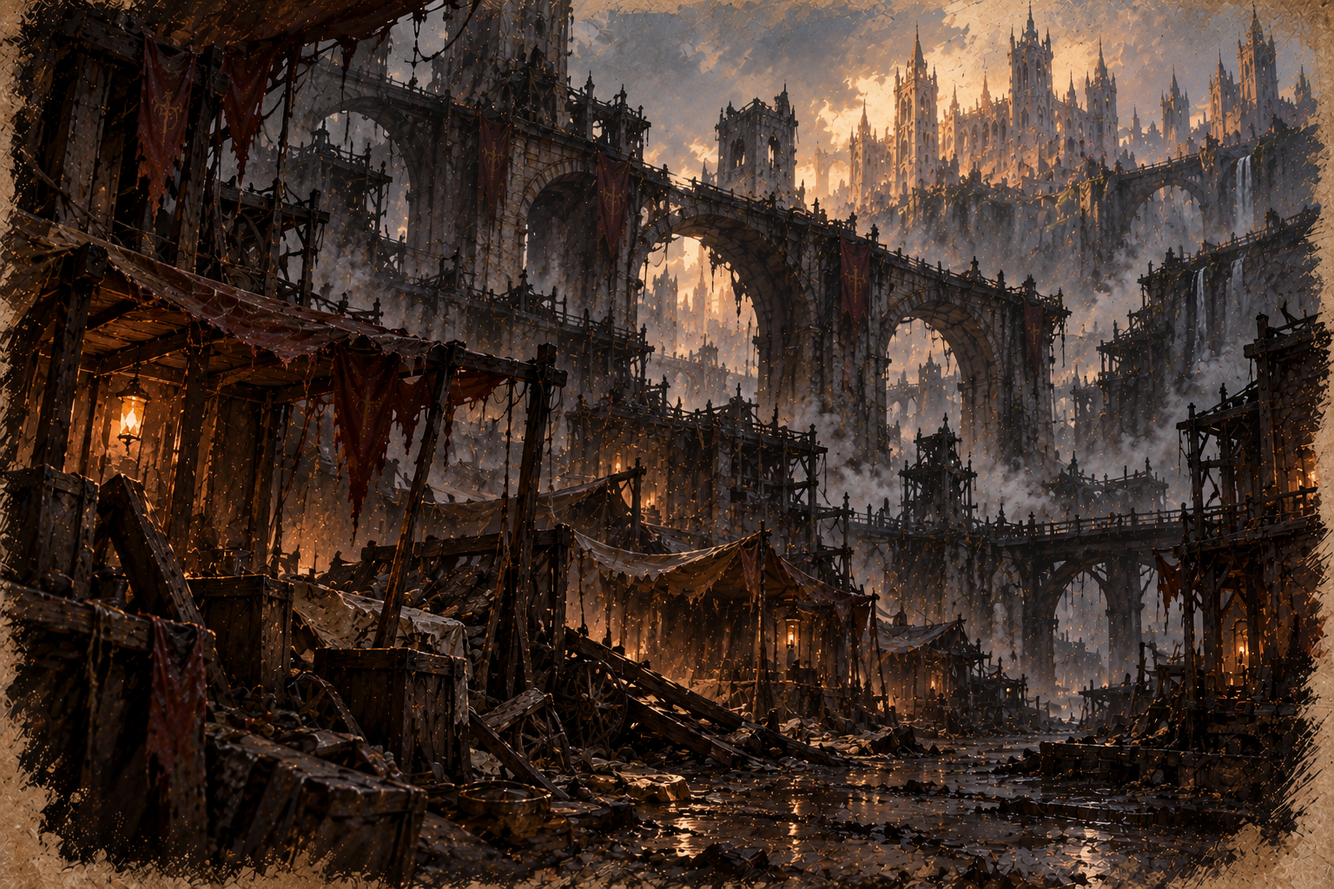
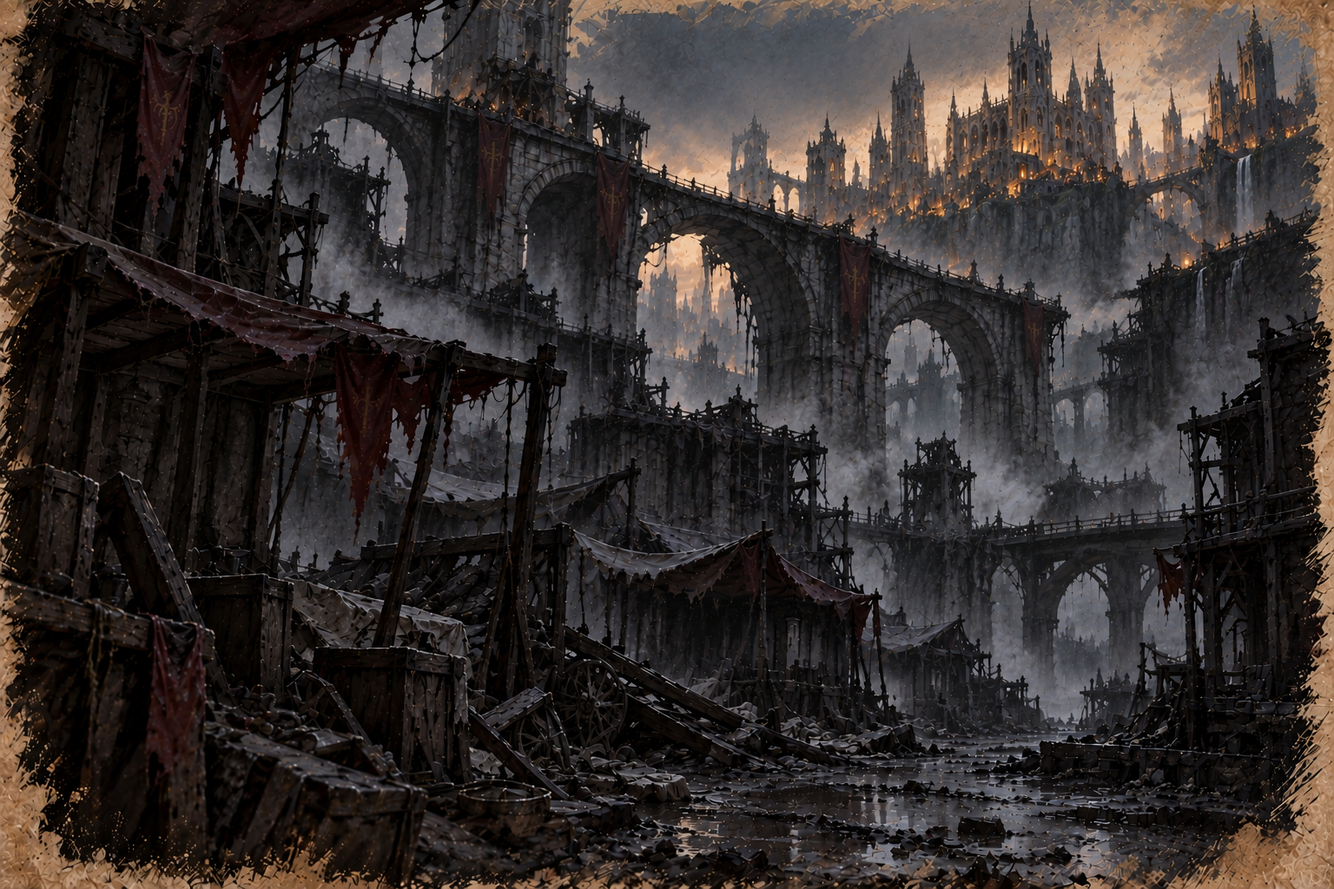
Replace Silent Market with latest approved upper-city-lit revision

diff --git a/index.html b/index.html
@@ -16,7 +16,7 @@ body{background:radial-gradient(ellipse at 50% 5%,#1d1a13 0%,#070808 58%,#050505
 <div class="prose compact">
 <p><strong>Silver pendant.</strong> Mira owned the pendant Elias carries after her disappearance. It is his only remaining keepsake of her. Its origin and precise design are undecided.</p>
 </div>
-</section><div class="plates"><figure class="plate "><img loading="lazy" src="assets/images/Graphite%20Portrait%20Studies%20on%20Aged%20Paper.png" alt="MIRA / Additional portrait exploration — not final design"><figcaption>MIRA / Additional portrait exploration — not final design</figcaption></figure></div><details class="spoiler"><summary>⚠ Ending spoiler · Mira’s fate</summary><div class="reveal"><span class="label">Confirmed story truth · reveals major plot information</span><p><strong>Mira died at fifteen, roughly two years before the present story.</strong> Elias believes she may still be alive. The audience discovers the truth with him near the ending, not at the beginning.</p><p>She was taken with other civilians during the uprising, survived the initial capture and died later. Elias never witnessed her death. Her exact circumstances remain undecided; they are not established canon.</p></div></details><aside class="margin-note"><strong>Character in development</strong><p>Mira’s final portrait, clothing and many details of her independent life are not yet approved. These studies are presented as explorations, not settled canon.</p></aside><div class="chapter-foot"><a href="#elias">← Previous</a><a href="#contents">Contents</a><a href="#life">Next chapter →</a></div></article><article class="chapter" id="life" data-title="Lives Beneath the Arches"><div class="chapter-head"><span class="folio">CHAPTER IV / WHERE THE LIGHT FALLS</span><h2>Lives Beneath the Arches</h2><p class="dek">A city is made of the people who wake up in it each morning.</p></div><figure class="plate wide"><img loading="lazy" src="assets/images/Cavernous%20Monochrome%20Market%20City.png" alt="LOWER-CITY CONCEPT / Original sketch of the viaduct market scene"><figcaption>LOWER-CITY CONCEPT / Original sketch of the viaduct market scene</figcaption></figure><div class="prose"><p class="drop">Before the streets became associated with catastrophe, they were simply home. Vendors argued over prices, neighbors traded favors, and children learned which alleys led to a friend’s door.</p><p>Life here is shaped by inequality, but its people are not defined solely by hardship. Nor is the upper city inhabited only by villains. The divisions are structural and political, lived through countless individual choices.</p><p>In the lower districts, an organized faction gains influence through work, supplies, debt and intimidation. It draws power from real grievances while pursuing its own interests. Most residents are not part of it. Most want to get through another day in peace.</p></div><figure class="plate wide"><img loading="lazy" src="assets/images/Hidden%20Children%E2%80%99s%20Shelter%20Storyboard.png" alt="ENVIRONMENT / Children's shelter storyboard and community study"><figcaption>ENVIRONMENT / Children's shelter storyboard and community study</figcaption></figure><aside class="margin-note"><strong>Unfinished worldbuilding</strong><p>The faction, city districts and political institutions do not yet have final names. Their motivations are being developed without making entire social groups uniformly good or evil.</p></aside><div class="chapter-foot"><a href="#mira">← Previous</a><a href="#contents">Contents</a><a href="#story">Next chapter →</a></div></article><article class="chapter" id="story" data-title="The Search"><div class="chapter-head"><span class="folio">CHAPTER V / WHERE THE LIGHT FALLS</span><h2>The Search</h2><p class="dek">The story begins with a question Elias cannot bear to leave unanswered.</p></div><figure class="plate wide"><img loading="lazy" src="assets/images/Elias%20Overlooking%20the%20Golden%20City.png" alt="Approved painterly illustration of Elias overlooking the connected gothic city at dusk"><figcaption>APPROVED VISUAL CONCEPT / Elias overlooking the city — an atmospheric character study, not a confirmed event or a literal map</figcaption></figure><figure class="plate wide"><img loading="lazy" src="assets/images/Ruined%20Gothic%20Market%20Beneath%20Broken%20Viaducts.png" alt="Painterly post-uprising concept of a damaged lower-city market, with shattered timber stalls, broken stone viaducts, rubble and sparse amber light"><figcaption>POST-UPRISING CITY CONCEPT / The Silent Market — a war-scarred district beneath broken viaducts. Exploratory environment art; exact location, damage and depicted symbols are not established canon.</figcaption></figure><aside class="margin-note"><strong>After the uprising · Environment study</strong><p>The uprising damaged parts of the city. This painting explores what one lower-city market might look like afterward, using the established painterly art direction. The image is a visual possibility, not a confirmed story scene or a fixed architectural map.</p></aside><div class="prose"><p class="drop">After the uprising, parts of the once-busy city lie damaged and scarred by violence. Yet beyond the ruined streets, other neighborhoods endure. People rebuild what they can, mourn those they have lost, and try to find a way forward in a city that no longer feels quite like home.</p><p>Elias moves through a city scarred by the uprising. During the violence, he glimpsed Mira among civilians being taken away and was unable to save her. He does not know what became of her afterward, and he believes she may still be somewhere beyond his reach.</p><p>His journey is not about becoming a chosen hero. It is about memory, responsibility, the damage people do while trying to protect one another, and the possibility of a life beyond a single purpose.</p><p>The story is intended to move between Elias’s present search and moments from the past, potentially including Mira’s own truthful perspective. Some answers belong to the story itself.</p></div><details class="spoiler"><summary>⚠ Story spoiler · Who enabled the uprising</summary><div class="reveal"><span class="label">Confirmed story truth · reveals major plot information</span><p><strong>The faction deliberately used Elias to enable the uprising.</strong> Its leaders promised to release him from their control after one last assignment, while concealing that the passage he opened would be used for their planned attack. His unwitting involvement is a major source of guilt and a revelation about the catastrophe.</p><p><strong>Ending revelation:</strong> Mira is already dead during Elias’s present-day search. The story must offer fair clues without falsely presenting her past perspective. The exact events of her death and the final scenes are still being developed.</p></div></details><blockquote>Some things remain with us long after the light has moved.</blockquote><aside class="margin-note"><strong>Story status</strong><p>The emotional foundation and central mystery are established. The full sequence of Elias’s journey, supporting cast and narrative scenes are still being written. Major revelations appear only inside clearly marked spoiler panels.</p></aside><div class="chapter-foot"><a href="#life">← Previous</a><a href="#contents">Contents</a><a href="#atelier">Next chapter →</a></div></article><article class="chapter" id="atelier" data-title="The Artist’s Table"><div class="chapter-head"><span class="folio">CHAPTER VI / WHERE THE LIGHT FALLS</span><h2>The Artist’s Table</h2><p class="dek">A record of the world as it takes shape.</p></div><div class="prose"><p class="drop">This is a living manuscript. Some designs are approved; others are questions rendered in pencil and light. We keep both, but distinguish them clearly.</p><p>The world’s foundations—its story, characters, environments and creative ideas—come from Bryan Roubos. As a solo creator, Bryan begins with his own pencil drawings, sketches and ideas, then uses AI-assisted concept studies to explore and refine them into more detailed sketches and artwork. This process helps visualize possibilities and develop the project without spending months producing every exploratory image by hand. AI is a tool in that process, not the source of the project’s creative vision; individual studies remain concepts unless explicitly approved.</p></div><div class="plates"><figure class="plate "><img loading="lazy" src="assets/images/Graphite%20Character%20Study%20Sheet.png" alt="APPROVED DIRECTION / Elias, Concept 03"><figcaption>APPROVED DIRECTION / Elias, Concept 03</figcaption></figure><figure class="plate "><img loading="lazy" src="assets/images/Elias%20Clothing%20Concept%20Board.png" alt="COSTUME DIRECTION / Fabric and silhouette"><figcaption>COSTUME DIRECTION / Fabric and silhouette</figcaption></figure><figure class="plate "><img loading="lazy" src="assets/images/Gothic%20Underpass%20Market%20at%20Dusk.png" alt="APPROVED PAINTERLY DIRECTION / Inhabited lower-city market"><figcaption>APPROVED PAINTERLY DIRECTION / Inhabited lower-city market</figcaption></figure><figure class="plate "><img loading="lazy" src="assets/images/Hidden%20Children%E2%80%99s%20Shelter%20Storyboard.png" alt="EXPLORATION / Shelter storyboard"><figcaption>EXPLORATION / Shelter storyboard</figcaption></figure></div><div class="studio-links"><a href="https://github.com/BryanRoubos/untitled-universe">Development repository ↗</a><a href="#workshop">Visit the Workshop →</a></div><p class="fineprint">The development repository is public and may contain major story spoilers. Open red spoiler panels only if you want to know confirmed plot revelations.</p><div class="chapter-foot"><a href="#story">← Previous</a><a href="#contents">Contents</a><a href="#workshop">Next · Workshop →</a></div></article><section class="chapter" id="workshop"><div class="chapter-head"><span class="folio">APPENDIX / CREATOR'S NOTES</span><h2>The Workshop</h2><p class="dek">The questions we are still asking, kept separate from the story we have already decided.</p></div><div class="workshop-intro"><p>This appendix holds open questions behind <em>Where the Light Falls</em>. Ideas here are <strong>not canon</strong> until approved. The numbered chapters form the illustrated reading experience; confirmed revelations are kept inside optional spoiler panels.</p></div><div class="workshop-grid"><div class="workshop-card"><span class="label">In development · Narrative</span><h3>What happens after capture?</h3><p>Mira's exact death circumstances, the timing of the revelation, Elias's response, and the fair clues that lead there still need to be written.</p></div><div class="workshop-card"><span class="label">In development · Characters</span><h3>The childhood friend</h3><p>The trusting friend who introduced Elias to the faction has no final name, fate or complete character arc yet.</p></div><div class="workshop-card"><span class="label">In development · World</span><h3>The city and its powers</h3><p>The city's name, government, faction name, detailed political structures, and precise geography are open. The upper and lower districts are one connected city.</p></div><div class="workshop-card"><span class="label">In development · Mystery</span><h3>Memory and the uncanny</h3><p>Unreliable memories are a possible future idea, not current canon. Revisiting real events with additional context is an option; supernatural elements remain undecided.</p></div><div class="workshop-card"><span class="label">In development · Design</span><h3>Mira's final look</h3><p>Her portrait studies are exploratory. Her final facial design, clothing, and many details of her independent daily life remain open.</p></div><div class="workshop-card"><span class="label">In development · Format</span><h3>Finding the right medium</h3><p>The project's medium and final form remain deliberately open. We are developing the world, characters and story without presuming a game, book, or any other format. No medium-specific production, gameplay systems, or book structure is currently a commitment.</p></div></div><div class="workshop-warning">This workshop is public, not password-protected. Canon spoilers are hidden by default for casual readers, but the website and linked public GitHub repository are not secure storage for confidential story material.</div><div class="chapter-foot"><a href="#atelier">← The Artist's Table</a><a href="#contents">Contents</a><a href="#top">Back to cover ↑</a></div></section></main><div class="chapter-jump"><label for="chapter-select">Turn to chapter</label><select id="chapter-select" aria-label="Jump to chapter"><option value="#contents">Contents</option><option value="#city">I · City</option><option value="#elias">II · Elias</option><option value="#mira">III · Mira</option><option value="#life">IV · Life</option><option value="#story">V · The Search</option><option value="#atelier">VI · Art</option><option value="#workshop">Appendix · Workshop</option></select></div><footer class="footer"><div>WHERE THE LIGHT FALLS · An illustrated living book<br>Original dark-fantasy project · Work in progress</div><div>Creative direction: Bryan Roubos<br><a href="https://github.com/BryanRoubos/untitled-universe">Development archive ↗</a></div></footer><div class="lightbox" id="lightbox" role="dialog" aria-modal="true" aria-label="Concept art viewer" aria-hidden="true"><div class="lightbox-controls"><button id="minus" aria-label="Zoom out">−</button><button id="reset" aria-label="Reset zoom">100%</button><button id="plus" aria-label="Zoom in">+</button><button id="close" aria-label="Close artwork">✕</button></div><div class="lightbox-stage"><img id="expanded" alt=""></div><div class="lightbox-caption" id="caption"></div></div><script>
+</section><div class="plates"><figure class="plate "><img loading="lazy" src="assets/images/Graphite%20Portrait%20Studies%20on%20Aged%20Paper.png" alt="MIRA / Additional portrait exploration — not final design"><figcaption>MIRA / Additional portrait exploration — not final design</figcaption></figure></div><details class="spoiler"><summary>⚠ Ending spoiler · Mira’s fate</summary><div class="reveal"><span class="label">Confirmed story truth · reveals major plot information</span><p><strong>Mira died at fifteen, roughly two years before the present story.</strong> Elias believes she may still be alive. The audience discovers the truth with him near the ending, not at the beginning.</p><p>She was taken with other civilians during the uprising, survived the initial capture and died later. Elias never witnessed her death. Her exact circumstances remain undecided; they are not established canon.</p></div></details><aside class="margin-note"><strong>Character in development</strong><p>Mira’s final portrait, clothing and many details of her independent life are not yet approved. These studies are presented as explorations, not settled canon.</p></aside><div class="chapter-foot"><a href="#elias">← Previous</a><a href="#contents">Contents</a><a href="#life">Next chapter →</a></div></article><article class="chapter" id="life" data-title="Lives Beneath the Arches"><div class="chapter-head"><span class="folio">CHAPTER IV / WHERE THE LIGHT FALLS</span><h2>Lives Beneath the Arches</h2><p class="dek">A city is made of the people who wake up in it each morning.</p></div><figure class="plate wide"><img loading="lazy" src="assets/images/Cavernous%20Monochrome%20Market%20City.png" alt="LOWER-CITY CONCEPT / Original sketch of the viaduct market scene"><figcaption>LOWER-CITY CONCEPT / Original sketch of the viaduct market scene</figcaption></figure><div class="prose"><p class="drop">Before the streets became associated with catastrophe, they were simply home. Vendors argued over prices, neighbors traded favors, and children learned which alleys led to a friend’s door.</p><p>Life here is shaped by inequality, but its people are not defined solely by hardship. Nor is the upper city inhabited only by villains. The divisions are structural and political, lived through countless individual choices.</p><p>In the lower districts, an organized faction gains influence through work, supplies, debt and intimidation. It draws power from real grievances while pursuing its own interests. Most residents are not part of it. Most want to get through another day in peace.</p></div><figure class="plate wide"><img loading="lazy" src="assets/images/Hidden%20Children%E2%80%99s%20Shelter%20Storyboard.png" alt="ENVIRONMENT / Children's shelter storyboard and community study"><figcaption>ENVIRONMENT / Children's shelter storyboard and community study</figcaption></figure><aside class="margin-note"><strong>Unfinished worldbuilding</strong><p>The faction, city districts and political institutions do not yet have final names. Their motivations are being developed without making entire social groups uniformly good or evil.</p></aside><div class="chapter-foot"><a href="#mira">← Previous</a><a href="#contents">Contents</a><a href="#story">Next chapter →</a></div></article><article class="chapter" id="story" data-title="The Search"><div class="chapter-head"><span class="folio">CHAPTER V / WHERE THE LIGHT FALLS</span><h2>The Search</h2><p class="dek">The story begins with a question Elias cannot bear to leave unanswered.</p></div><figure class="plate wide"><img loading="lazy" src="assets/images/Elias%20Overlooking%20the%20Golden%20City.png" alt="Approved painterly illustration of Elias overlooking the connected gothic city at dusk"><figcaption>APPROVED VISUAL CONCEPT / Elias overlooking the city — an atmospheric character study, not a confirmed event or a literal map</figcaption></figure><figure class="plate wide"><img loading="lazy" src="assets/images/Ruined%20Gothic%20Market%20Beneath%20Broken%20Viaducts.png" alt="Painterly post-uprising market with unlit, abandoned lower streets beneath broken viaducts, contrasting with a few illuminated windows in the distant upper city"><figcaption>POST-UPRISING CITY CONCEPT / The Silent Market — an abandoned, unlit lower-city market beneath broken viaducts, contrasted with the still-lit upper city. Exploratory artwork; the precise damage and architecture are not established canon.</figcaption></figure><aside class="margin-note"><strong>After the uprising · Environment study</strong><p>The uprising damaged parts of the city. This painting explores what one lower-city market might look like afterward, using the established painterly art direction. The image is a visual possibility, not a confirmed story scene or a fixed architectural map.</p></aside><div class="prose"><p class="drop">After the uprising, parts of the once-busy city lie damaged and scarred by violence. Yet beyond the ruined streets, other neighborhoods endure. People rebuild what they can, mourn those they have lost, and try to find a way forward in a city that no longer feels quite like home.</p><p>Elias moves through a city scarred by the uprising. During the violence, he glimpsed Mira among civilians being taken away and was unable to save her. He does not know what became of her afterward, and he believes she may still be somewhere beyond his reach.</p><p>His journey is not about becoming a chosen hero. It is about memory, responsibility, the damage people do while trying to protect one another, and the possibility of a life beyond a single purpose.</p><p>The story is intended to move between Elias’s present search and moments from the past, potentially including Mira’s own truthful perspective. Some answers belong to the story itself.</p></div><details class="spoiler"><summary>⚠ Story spoiler · Who enabled the uprising</summary><div class="reveal"><span class="label">Confirmed story truth · reveals major plot information</span><p><strong>The faction deliberately used Elias to enable the uprising.</strong> Its leaders promised to release him from their control after one last assignment, while concealing that the passage he opened would be used for their planned attack. His unwitting involvement is a major source of guilt and a revelation about the catastrophe.</p><p><strong>Ending revelation:</strong> Mira is already dead during Elias’s present-day search. The story must offer fair clues without falsely presenting her past perspective. The exact events of her death and the final scenes are still being developed.</p></div></details><blockquote>Some things remain with us long after the light has moved.</blockquote><aside class="margin-note"><strong>Story status</strong><p>The emotional foundation and central mystery are established. The full sequence of Elias’s journey, supporting cast and narrative scenes are still being written. Major revelations appear only inside clearly marked spoiler panels.</p></aside><div class="chapter-foot"><a href="#life">← Previous</a><a href="#contents">Contents</a><a href="#atelier">Next chapter →</a></div></article><article class="chapter" id="atelier" data-title="The Artist’s Table"><div class="chapter-head"><span class="folio">CHAPTER VI / WHERE THE LIGHT FALLS</span><h2>The Artist’s Table</h2><p class="dek">A record of the world as it takes shape.</p></div><div class="prose"><p class="drop">This is a living manuscript. Some designs are approved; others are questions rendered in pencil and light. We keep both, but distinguish them clearly.</p><p>The world’s foundations—its story, characters, environments and creative ideas—come from Bryan Roubos. As a solo creator, Bryan begins with his own pencil drawings, sketches and ideas, then uses AI-assisted concept studies to explore and refine them into more detailed sketches and artwork. This process helps visualize possibilities and develop the project without spending months producing every exploratory image by hand. AI is a tool in that process, not the source of the project’s creative vision; individual studies remain concepts unless explicitly approved.</p></div><div class="plates"><figure class="plate "><img loading="lazy" src="assets/images/Graphite%20Character%20Study%20Sheet.png" alt="APPROVED DIRECTION / Elias, Concept 03"><figcaption>APPROVED DIRECTION / Elias, Concept 03</figcaption></figure><figure class="plate "><img loading="lazy" src="assets/images/Elias%20Clothing%20Concept%20Board.png" alt="COSTUME DIRECTION / Fabric and silhouette"><figcaption>COSTUME DIRECTION / Fabric and silhouette</figcaption></figure><figure class="plate "><img loading="lazy" src="assets/images/Gothic%20Underpass%20Market%20at%20Dusk.png" alt="APPROVED PAINTERLY DIRECTION / Inhabited lower-city market"><figcaption>APPROVED PAINTERLY DIRECTION / Inhabited lower-city market</figcaption></figure><figure class="plate "><img loading="lazy" src="assets/images/Hidden%20Children%E2%80%99s%20Shelter%20Storyboard.png" alt="EXPLORATION / Shelter storyboard"><figcaption>EXPLORATION / Shelter storyboard</figcaption></figure></div><div class="studio-links"><a href="https://github.com/BryanRoubos/untitled-universe">Development repository ↗</a><a href="#workshop">Visit the Workshop →</a></div><p class="fineprint">The development repository is public and may contain major story spoilers. Open red spoiler panels only if you want to know confirmed plot revelations.</p><div class="chapter-foot"><a href="#story">← Previous</a><a href="#contents">Contents</a><a href="#workshop">Next · Workshop →</a></div></article><section class="chapter" id="workshop"><div class="chapter-head"><span class="folio">APPENDIX / CREATOR'S NOTES</span><h2>The Workshop</h2><p class="dek">The questions we are still asking, kept separate from the story we have already decided.</p></div><div class="workshop-intro"><p>This appendix holds open questions behind <em>Where the Light Falls</em>. Ideas here are <strong>not canon</strong> until approved. The numbered chapters form the illustrated reading experience; confirmed revelations are kept inside optional spoiler panels.</p></div><div class="workshop-grid"><div class="workshop-card"><span class="label">In development · Narrative</span><h3>What happens after capture?</h3><p>Mira's exact death circumstances, the timing of the revelation, Elias's response, and the fair clues that lead there still need to be written.</p></div><div class="workshop-card"><span class="label">In development · Characters</span><h3>The childhood friend</h3><p>The trusting friend who introduced Elias to the faction has no final name, fate or complete character arc yet.</p></div><div class="workshop-card"><span class="label">In development · World</span><h3>The city and its powers</h3><p>The city's name, government, faction name, detailed political structures, and precise geography are open. The upper and lower districts are one connected city.</p></div><div class="workshop-card"><span class="label">In development · Mystery</span><h3>Memory and the uncanny</h3><p>Unreliable memories are a possible future idea, not current canon. Revisiting real events with additional context is an option; supernatural elements remain undecided.</p></div><div class="workshop-card"><span class="label">In development · Design</span><h3>Mira's final look</h3><p>Her portrait studies are exploratory. Her final facial design, clothing, and many details of her independent daily life remain open.</p></div><div class="workshop-card"><span class="label">In development · Format</span><h3>Finding the right medium</h3><p>The project's medium and final form remain deliberately open. We are developing the world, characters and story without presuming a game, book, or any other format. No medium-specific production, gameplay systems, or book structure is currently a commitment.</p></div></div><div class="workshop-warning">This workshop is public, not password-protected. Canon spoilers are hidden by default for casual readers, but the website and linked public GitHub repository are not secure storage for confidential story material.</div><div class="chapter-foot"><a href="#atelier">← The Artist's Table</a><a href="#contents">Contents</a><a href="#top">Back to cover ↑</a></div></section></main><div class="chapter-jump"><label for="chapter-select">Turn to chapter</label><select id="chapter-select" aria-label="Jump to chapter"><option value="#contents">Contents</option><option value="#city">I · City</option><option value="#elias">II · Elias</option><option value="#mira">III · Mira</option><option value="#life">IV · Life</option><option value="#story">V · The Search</option><option value="#atelier">VI · Art</option><option value="#workshop">Appendix · Workshop</option></select></div><footer class="footer"><div>WHERE THE LIGHT FALLS · An illustrated living book<br>Original dark-fantasy project · Work in progress</div><div>Creative direction: Bryan Roubos<br><a href="https://github.com/BryanRoubos/untitled-universe">Development archive ↗</a></div></footer><div class="lightbox" id="lightbox" role="dialog" aria-modal="true" aria-label="Concept art viewer" aria-hidden="true"><div class="lightbox-controls"><button id="minus" aria-label="Zoom out">−</button><button id="reset" aria-label="Reset zoom">100%</button><button id="plus" aria-label="Zoom in">+</button><button id="close" aria-label="Close artwork">✕</button></div><div class="lightbox-stage"><img id="expanded" alt=""></div><div class="lightbox-caption" id="caption"></div></div><script>
 (()=>{const box=document.getElementById('lightbox'),photo=document.getElementById('expanded'),caption=document.getElementById('caption');let zoom=1,focus;function setZoom(n){zoom=Math.min(4,Math.max(1,n));photo.style.setProperty('--zoom',zoom);document.getElementById('reset').textContent=Math.round(zoom*100)+'%'}function close(){box.classList.remove('open');box.setAttribute('aria-hidden','true');document.body.style.overflow='';photo.removeAttribute('src');setZoom(1);focus?.focus()}document.querySelectorAll('.plate img').forEach(im=>{im.tabIndex=0;im.setAttribute('role','button');im.setAttribute('aria-label','Enlarge artwork: '+im.alt);function open(){focus=document.activeElement;photo.src=im.src;photo.alt=im.alt;caption.textContent=im.closest('figure').querySelector('figcaption').textContent;setZoom(1);box.classList.add('open');box.setAttribute('aria-hidden','false');document.body.style.overflow='hidden';document.getElementById('close').focus()}im.addEventListener('click',open);im.addEventListener('keydown',e=>{if(e.key==='Enter'||e.key===' '){e.preventDefault();open()}})});document.getElementById('close').onclick=close;document.getElementById('minus').onclick=()=>setZoom(zoom-.5);document.getElementById('plus').onclick=()=>setZoom(zoom+.5);document.getElementById('reset').onclick=()=>setZoom(1);box.addEventListener('click',e=>{if(e.target===box)close()});document.addEventListener('keydown',e=>{if(e.key==='Escape'&&box.classList.contains('open'))close()})})();
 
 (()=>{const select=document.getElementById('chapter-select'),bar=document.getElementById('reading-progress'),chapters=[...document.querySelectorAll('.chapter[id]')],nav=[...document.querySelectorAll('nav a')];let queued=false;function update(){queued=false;const max=Math.max(1,document.documentElement.scrollHeight-innerHeight);bar.style.width=(Math.max(0,Math.min(1,scrollY/max))*100)+'%';let id='contents';for(const chapter of chapters){if(chapter.getBoundingClientRect().top<innerHeight*.35)id=chapter.id}if(document.getElementById('contents').getBoundingClientRect().top>innerHeight*.5)id='contents';select.value='#'+id;for(const link of nav){if(link.getAttribute('href')==='#'+id)link.setAttribute('aria-current','location');else link.removeAttribute('aria-current')}}function schedule(){if(!queued){queued=true;requestAnimationFrame(update)}}select.addEventListener('change',()=>{const target=document.querySelector(select.value);if(target){history.replaceState(null,'',select.value);target.scrollIntoView({behavior:matchMedia('(prefers-reduced-motion: reduce)').matches?'auto':'smooth'})}});addEventListener('scroll',schedule,{passive:true});addEventListener('resize',schedule);update()})();

diff --git a/SESSION_HANDOFF.md b/SESSION_HANDOFF.md
@@ -1,3 +1,5 @@
+**Latest image revision (17 October 2026):** Replaced the previously featured *Silent Market* file with the creator's latest uploaded version. The ruined lower-city market is unlit and abandoned, while distant upper-city windows retain restrained warm light. Disregard the earlier all-dark version. This is an approved visual direction for the illustration, **not** confirmation that the entire lower city is abandoned or that all upper districts escaped damage.
+
 **Post-uprising concept art (17 October 2026):** The uploaded `Ruined Gothic Market Beneath Broken Viaducts.png` was moved from repo root to `assets/images/` and featured in Chapter V of `index.html` as *The Silent Market*. Approved painterly style; art is exploratory, not a confirmed scene, map, specific district or new lore. User explicitly wants to focus on concept art for now. No story/canon expansion.
 
 **Artwork synchronized — 17 October 2026:** Moved three uploaded root PNGs into `assets/images/` using their existing Git blobs. Website features the new market and vertical-city illustration in Chapter I, the new Elias overlook in Chapter V, and the new market in the Workshop. Earlier versions remain in the image archive. Fixed incorrect same-scene claim and post-uprising claim. Documentation updated; incidental artwork details not canon.

diff --git a/art/ART_DIRECTION.md b/art/ART_DIRECTION.md
@@ -1,3 +1,5 @@
+**Latest image revision (17 October 2026):** Replaced the previously featured *Silent Market* file with the creator's latest uploaded version. The ruined lower-city market is unlit and abandoned, while distant upper-city windows retain restrained warm light. Disregard the earlier all-dark version. This is an approved visual direction for the illustration, **not** confirmation that the entire lower city is abandoned or that all upper districts escaped damage.
+
 ## Post-uprising concept art added — 17 October 2026
 
 **New uploaded image:** `assets/images/Ruined Gothic Market Beneath Broken Viaducts.png`, titled *The Silent Market* for display. Featured in Chapter V (*The Search*) as a **post-uprising environment concept**, following the existing Elias overlook. The artist-supplied image follows the approved textured, imperfect, painterly aesthetic from *The Wayfarer’s Journal at Dusk*.

diff --git a/decisions/CANON_STATUS.md b/decisions/CANON_STATUS.md
@@ -1,3 +1,5 @@
+**Latest image revision (17 October 2026):** Replaced the previously featured *Silent Market* file with the creator's latest uploaded version. The ruined lower-city market is unlit and abandoned, while distant upper-city windows retain restrained warm light. Disregard the earlier all-dark version. This is an approved visual direction for the illustration, **not** confirmation that the entire lower city is abandoned or that all upper districts escaped damage.
+
 ## Post-uprising concept art added — 17 October 2026
 
 **New uploaded image:** `assets/images/Ruined Gothic Market Beneath Broken Viaducts.png`, titled *The Silent Market* for display. Featured in Chapter V (*The Search*) as a **post-uprising environment concept**, following the existing Elias overlook. The artist-supplied image follows the approved textured, imperfect, painterly aesthetic from *The Wayfarer’s Journal at Dusk*.

diff --git a/decisions/DECISION_LOG.md b/decisions/DECISION_LOG.md
@@ -1,3 +1,7 @@
+## 17 October 2026 — Silent Market illustration revised
+
+Latest uploaded image supersedes earlier post-uprising market variants. Lower market remains unlit and abandoned; upper-city windows have faint warm illumination. Earlier all-dark image should not be used. No new geographical, political or narrative canon established.
+
 ## 17 October 2026 — Post-uprising concept illustration uploaded
 
 *Ruined Gothic Market Beneath Broken Viaducts.png* was uploaded and added to the illustrated book as *The Silent Market*, a post-uprising visual study. The creator requested artwork only, not additional lore. Exact site, destruction, architecture and symbolic details are exploratory and do not become canon. No character or narrative decisions were added.
